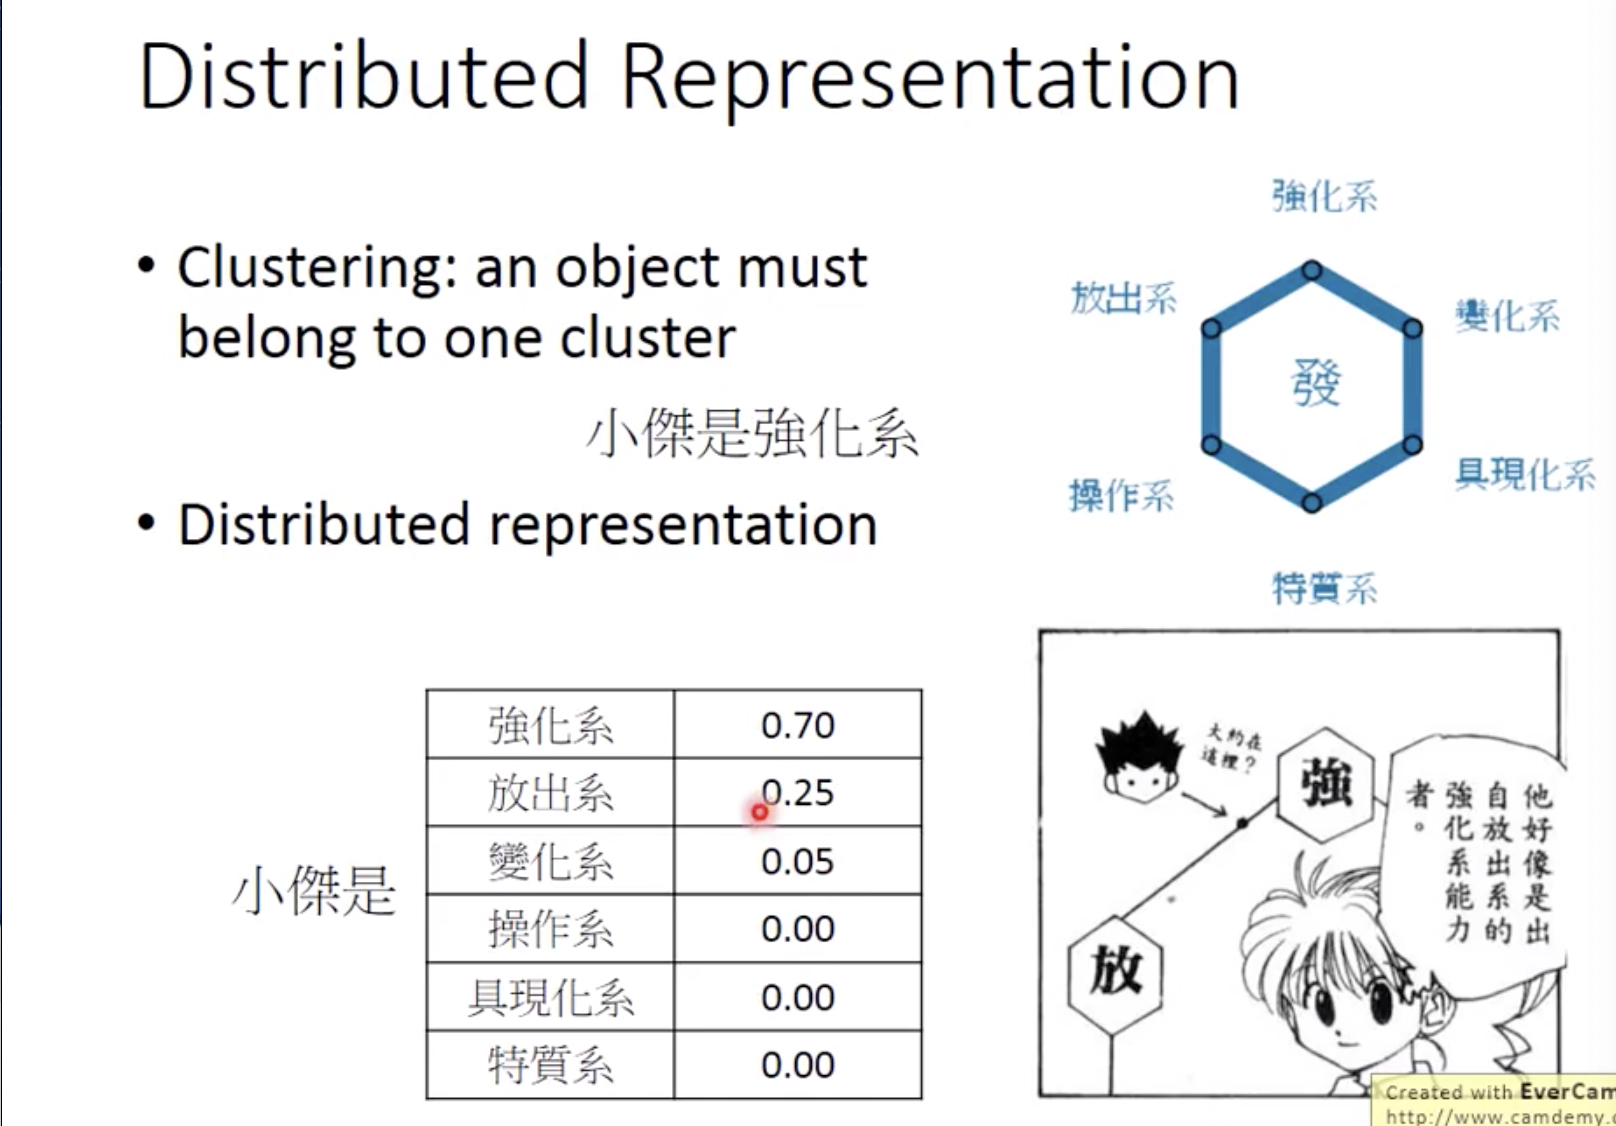
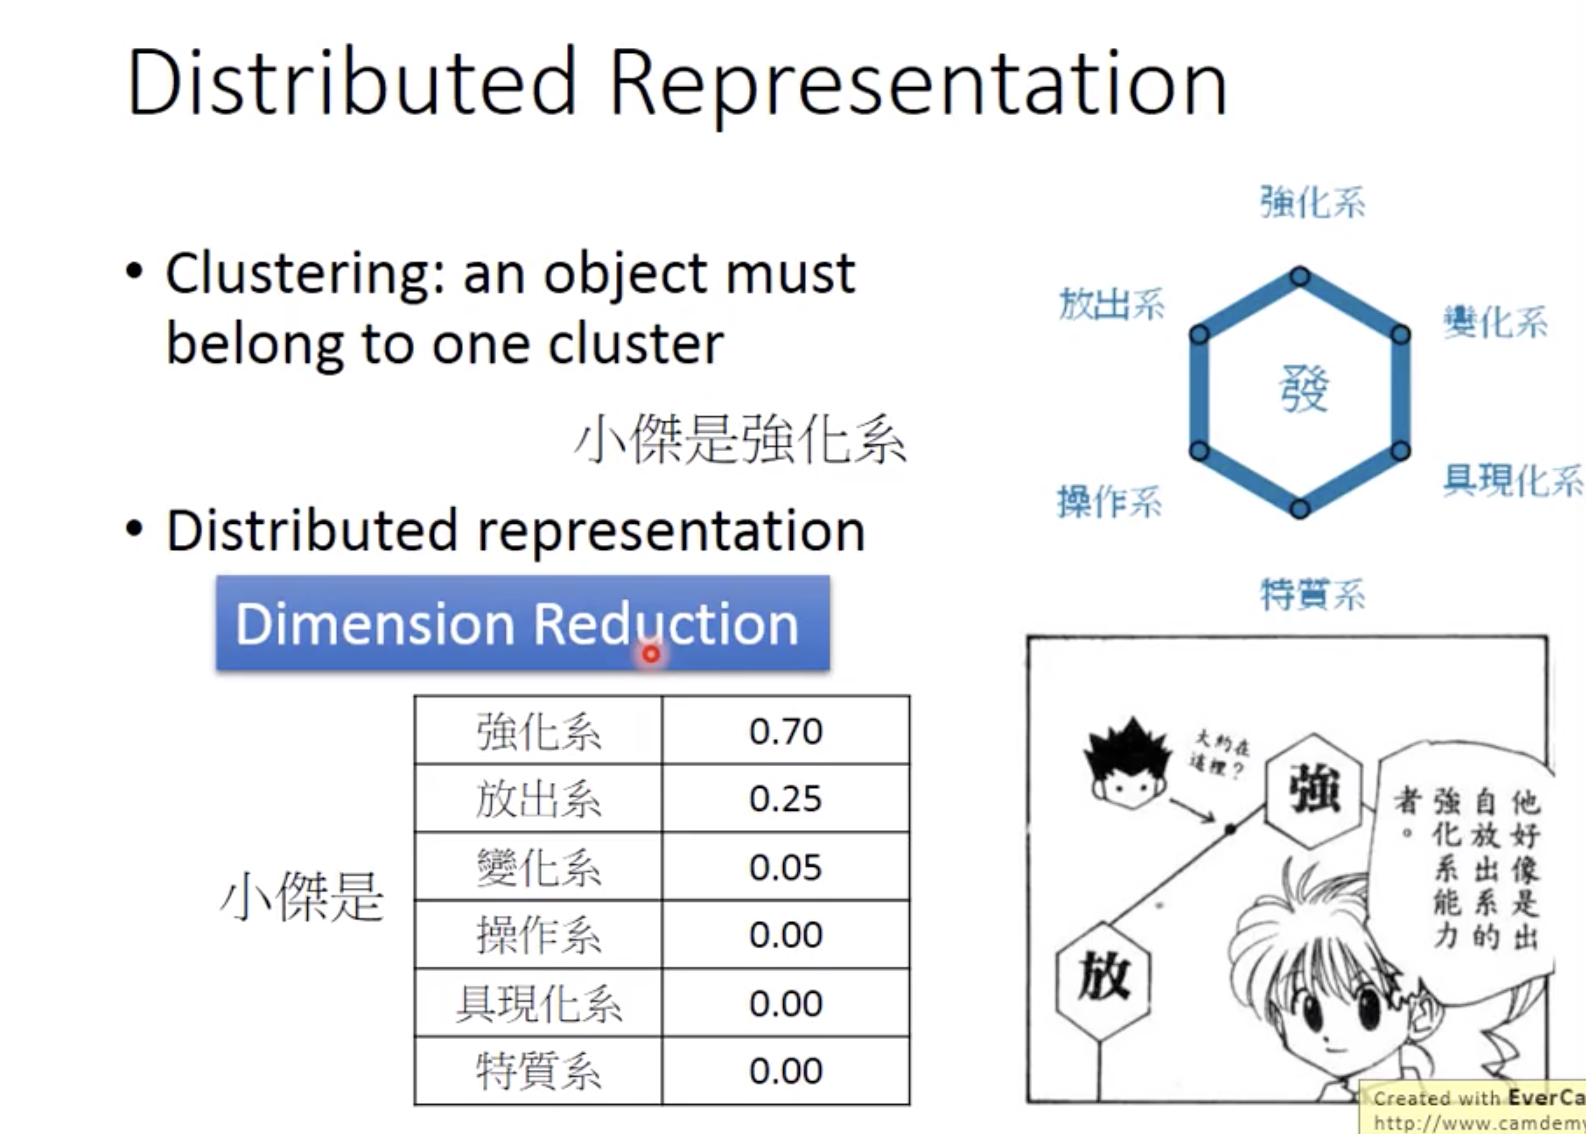
pca1

diff --git a/_drafts/work-linux/2019-01-09-unsupervised-lhy-ml-35.md b/_drafts/work-linux/2019-01-09-unsupervised-lhy-ml-35.md
@@ -30,10 +30,45 @@ $$图1. Clustering(源于lhy视频)$$
 
 ___Dimension Reduction:___
 
-+ 只做聚类会漏掉很多信息, 某个object是具有多维信息的
++ 只做聚类会漏掉很多信息, 因为某个object是具有多维信息的. 如果这个多维信息存在冗余就需要Dimension Reductin来解决
++ 为什么做dimension reduction: 数据的维度存在冗余
++ 怎么做: Feature selection、PCA(找出W)
++ PCA(图2中4-9)
 
 <div align="center">
 	<img src="/images/drafts/lhy-video/dr1.png" height="300" width="600">
+</div>
+
+<div align="center">
+	<img src="/images/drafts/lhy-video/dr2.png" height="300" width="600">
+</div>
+
+<div align="center">
+	<img src="/images/drafts/lhy-video/dr3.png" height="300" width="600">
+</div>
+
+<div align="center">
+	<img src="/images/drafts/lhy-video/dr4.png" height="300" width="600">
+</div>
+
+<div align="center">
+	<img src="/images/drafts/lhy-video/dr5.png" height="300" width="600">
+</div>
+
+<div align="center">
+	<img src="/images/drafts/lhy-video/dr6.png" height="300" width="600">
+</div>
+
+<div align="center">
+	<img src="/images/drafts/lhy-video/dr7.png" height="300" width="600">
+</div>
+
+<div align="center">
+	<img src="/images/drafts/lhy-video/dr8.png" height="300" width="600">
+</div>
+
+<div align="center">
+	<img src="/images/drafts/lhy-video/dr9.png" height="300" width="600">
 </div>
 
 $$图2. Dimension\ Reduction(源于lhy视频)$$
